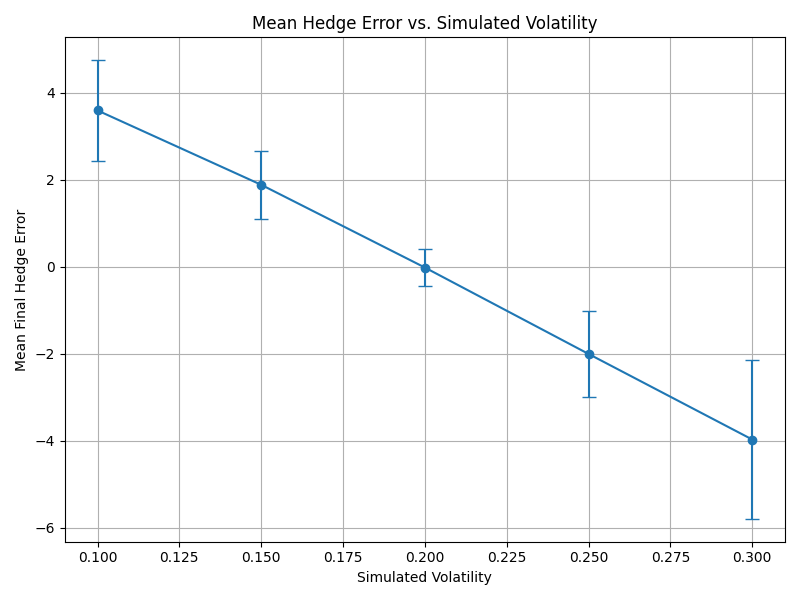
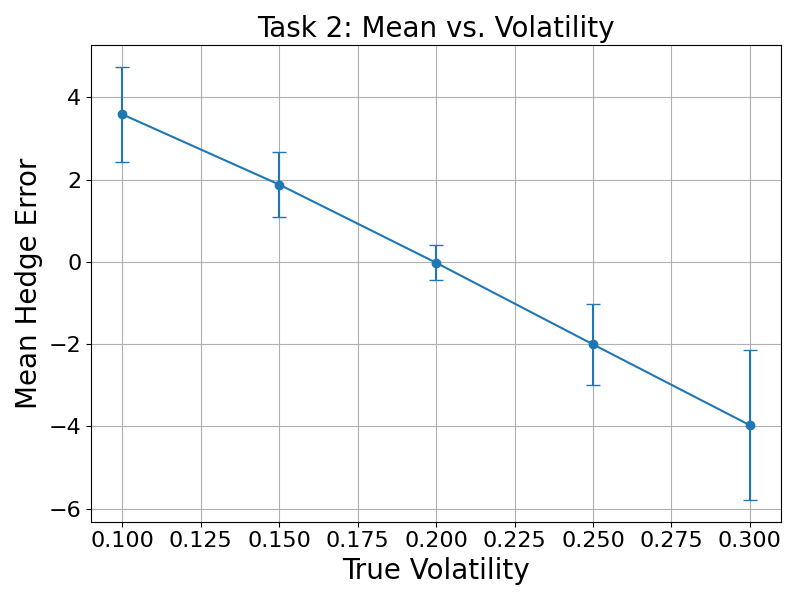
part3 update

diff --git a/src/Volatility Mismatch/1.py b/src/Volatility Mismatch/1.py
@@ -15,19 +15,18 @@ def black_scholes_price_and_delta(S, K, time_remaining, r, sigma):
     Calculate European call option price and delta using the Black-Scholes formula.
     
     Parameters:
-        S: current asset price.
-        K: strike price.
-        time_remaining: time remaining until maturity (in years).
-        r: risk-free rate.
-        sigma: volatility.
+        S: Current asset price.
+        K: Option strike price.
+        time_remaining: Time remaining until maturity (in years).
+        r: Risk-free rate.
+        sigma: Volatility (used for pricing and delta calculation).
         
     Returns:
-        price: option price.
-        delta: option delta.
+        price: Option price.
+        delta: Option delta.
     """
     if time_remaining < 1e-8:
         price = max(S - K, 0.0)
-        # At expiration, if S > K, delta=1; if S < K, delta=0; if S==K, we assign 0.5.
         delta = 1.0 if S > K else 0.0 if S < K else 0.5
         return price, delta
 
@@ -43,16 +42,18 @@ def black_scholes_price_and_delta(S, K, time_remaining, r, sigma):
 class DeltaHedgingSimulator:
     def __init__(self, initial_price, strike, T, r, pricing_vol, simulated_vol, sim_dt=1/2520):
         """
-        Initialize the simulator.
+        Initialize the delta hedging simulator.
         
         Parameters:
-            initial_price: initial asset price.
-            strike: option strike price.
-            T: maturity in years.
-            r: risk-free rate.
-            pricing_vol: volatility used for pricing and delta calculation (implied volatility).
-            simulated_vol: true volatility used for simulating the asset price path.
-            sim_dt: simulation time step.
+            initial_price: Initial asset price.
+            strike: Option strike price.
+            T: Option maturity (in years).
+            r: Risk-free interest rate.
+            pricing_vol: Implied volatility used for pricing and delta calculation.
+                         (Task 1: Matching Volatility, this equals the simulated volatility.)
+            simulated_vol: True volatility used to simulate the asset price path.
+                         (Task 2: Mismatched Volatility, this will vary while pricing_vol is fixed.)
+            sim_dt: Simulation time step.
         """
         self.initial_price = initial_price
         self.strike = strike
@@ -67,11 +68,11 @@ class DeltaHedgingSimulator:
         Simulate an asset price path under Geometric Brownian Motion.
         
         Parameters:
-            seed: random seed (optional).
+            seed: Random seed (optional).
             
         Returns:
-            times: array of time points.
-            path: array of asset prices.
+            times: Array of time points.
+            path: Array of asset prices.
         """
         if seed is not None:
             np.random.seed(seed)
@@ -87,35 +88,38 @@ class DeltaHedgingSimulator:
 
     def simulate_delta_hedge(self, hedge_interval, path_times=None, path_prices=None):
         """
-        Simulate the delta hedging process for a call option.
+        Simulate the delta hedging process of a European call option.
+        
+        For Task 1 (Matching Volatility): 
+            The asset simulation and delta computation use the same volatility.
+        For Task 2 (Mismatched Volatility): 
+            The simulation uses a true volatility different from the implied volatility used for delta computation.
         
         Parameters:
-            hedge_interval: time interval for rebalancing (in years).
-            path_times: optionally provide pre-generated time array.
-            path_prices: optionally provide pre-generated asset price path.
+            hedge_interval: Rebalancing interval (in years).
+            path_times: Optionally provide a pre-generated time array.
+            path_prices: Optionally provide a pre-generated asset price path.
             
         Returns:
-            result: dictionary containing:
-                - hedge_times: time points when hedging occurred.
-                - portfolio_values: portfolio value at each hedge time.
-                - option_values: theoretical option price at each hedge time.
-                - delta_values: delta used at each hedge time.
-                - hedge_errors: difference between portfolio value and option price.
-                - final_error: final hedge error.
+            result: A dictionary containing:
+                - hedge_times: Time points when hedging occurred.
+                - portfolio_values: Portfolio values at each hedge time.
+                - option_values: Theoretical option prices at each hedge time.
+                - delta_values: Option deltas used at each hedging point.
+                - hedge_errors: Difference between portfolio value and option price.
+                - final_error: Final hedge error.
         """
         if path_times is None or path_prices is None:
             path_times, path_prices = self.simulate_asset_path()
 
         N_sim = len(path_times) - 1
-        # Determine rebalancing indices. Ensure final time point is included.
         hedge_indices = np.arange(0, N_sim + 1, int(hedge_interval / self.sim_dt))
         if hedge_indices[-1] != N_sim:
             hedge_indices = np.append(hedge_indices, N_sim)
 
-        # Initial hedge: Calculate option price and delta.
         option_price, delta = black_scholes_price_and_delta(self.initial_price, self.strike, self.T, self.r, self.pricing_vol)
         cash = option_price - delta * self.initial_price
-        position = delta  # number of shares held
+        position = delta
 
         hedge_times = []
         portfolio_values = []
@@ -126,7 +130,6 @@ class DeltaHedgingSimulator:
         for i, idx in enumerate(hedge_indices):
             curr_time = path_times[idx]
             remaining_time = self.T - curr_time
-            # Update cash with risk-free growth from the last hedge time.
             if i > 0:
                 dt_period = curr_time - path_times[hedge_indices[i - 1]]
                 cash *= np.exp(self.r * dt_period)
@@ -141,7 +144,6 @@ class DeltaHedgingSimulator:
             delta_values.append(position)
             hedge_errors.append(error)
 
-            # Rebalance if not at maturity.
             if idx != N_sim:
                 _, new_delta = black_scholes_price_and_delta(path_prices[idx], self.strike, remaining_time, self.r, self.pricing_vol)
                 delta_adjustment = new_delta - position
@@ -161,19 +163,19 @@ class DeltaHedgingSimulator:
     @staticmethod
     def run_multiple_simulations(simulator, hedge_interval, num_simulations, seed_offset=0):
         """
-        Run multiple Monte Carlo simulations for a given hedging interval.
+        Run multiple Monte Carlo simulations for a specified hedging interval.
         
         Parameters:
-            simulator: an instance of DeltaHedgingSimulator.
-            hedge_interval: rebalancing interval (in years).
-            num_simulations: number of simulation runs.
-            seed_offset: offset for random seeds for reproducibility.
+            simulator: An instance of DeltaHedgingSimulator.
+            hedge_interval: Rebalancing interval (in years).
+            num_simulations: Number of simulation runs.
+            seed_offset: Random seed offset for reproducibility.
             
         Returns:
             A tuple containing:
-                - final_errors: array of final hedge errors from each simulation.
-                - one_time_path: hedge time path from the first simulation.
-                - one_error_path: hedge error path from the first simulation.
+                - final_errors: Array of final hedge errors.
+                - one_time_path: Hedge time points from the first simulation.
+                - one_error_path: Hedge error path from the first simulation.
         """
         final_errors = []
         one_error_path = None
@@ -192,17 +194,19 @@ class DeltaHedgingSimulator:
     @staticmethod
     def run_simulations_volatility_mismatch(initial_price, strike, T, r, pricing_vol, simulated_vol_list, hedge_interval, num_simulations):
         """
-        Run simulations to study the effect of different true volatilities (volatility mismatch).
+        Run simulations for Task 2: Mismatched Volatility.
+        
+        Here, pricing_vol is fixed (e.g., 20%), while the true volatility is varied.
+        This experiment studies the effect of volatility mismatch on hedging performance.
         
         Parameters:
-            initial_price, strike, T, r, pricing_vol: parameters for delta hedging.
-            simulated_vol_list: list of different true volatilities to simulate.
-            hedge_interval: hedging interval (in years).
-            num_simulations: number of simulation runs for each volatility.
+            initial_price, strike, T, r, pricing_vol: Parameters for delta hedging.
+            simulated_vol_list: List of different true volatilities.
+            hedge_interval: Hedging interval (in years).
+            num_simulations: Number of simulation runs for each volatility.
             
         Returns:
-            A dictionary where each key is a simulated volatility and the value is an array 
-            of final hedge errors obtained from the simulations.
+            A dictionary mapping each true volatility to an array of final hedge errors.
         """
         results = {}
         for sim_vol in simulated_vol_list:
@@ -211,129 +215,116 @@ class DeltaHedgingSimulator:
             results[sim_vol] = errors
         return results
 
-    @staticmethod
-    def run_simulations_implied_vol_mismatch(initial_price, strike, T, r, pricing_vol_list, simulated_vol, hedge_interval, num_simulations):
-        """
-        Run simulations to study the effect of different pricing (implied) volatilities while keeping
-        the true volatility fixed.
-        
-        Parameters:
-            initial_price, strike, T, r: standard parameters for delta hedging.
-            pricing_vol_list: list of different volatilities used for pricing/delta calculation.
-            simulated_vol: fixed true volatility used for stock price simulation.
-            hedge_interval: hedging interval (in years).
-            num_simulations: number of simulation runs for each pricing volatility.
-            
-        Returns:
-            A dictionary where each key is the pricing volatility and the value is an array 
-            of final hedge errors from the simulations.
-        """
-        results = {}
-        for p_vol in pricing_vol_list:
-            sim = DeltaHedgingSimulator(initial_price, strike, T, r, p_vol, simulated_vol)
-            errors, _, _ = DeltaHedgingSimulator.run_multiple_simulations(sim, hedge_interval, num_simulations)
-            results[p_vol] = errors
-        return results
-
 # -----------------------------
 # Main Simulation and Visualization
 # -----------------------------
 if __name__ == '__main__':
-    # Parameters for simulation.
+    # Simulation parameters.
     initial_price = 100.0     # Initial asset price.
     strike = 99.0             # Option strike price.
-    T = 1.0                   # Maturity in years.
+    T = 1.0                   # Option maturity (years).
     r = 0.06                  # Risk-free rate.
-    pricing_vol = 0.20        # Fixed pricing/delta volatility (implied volatility).
-    simulated_vol = 0.20      # True volatility for simulation (remains fixed).
+    pricing_vol = 0.20        # Fixed implied volatility for pricing/delta calculation.
+    simulated_vol = 0.20      # True volatility for Task 1 (Matching Volatility).
     sim_dt = 1/2520           # Simulation time step.
 
-    # Create a simulator instance for Task 1.
+    # =============================
+    # Task 1: Matching Volatility Experiment
+    # =============================
+    # In Task 1, both the asset simulation and delta computation use the same volatility (20%).
+    # We compare the impact of different rebalancing frequencies (daily vs. weekly) on hedging.
     simulator = DeltaHedgingSimulator(initial_price, strike, T, r, pricing_vol, simulated_vol, sim_dt)
 
-    # -----------------------------
-    # Task 1: Hedging Frequency Comparison
-    # -----------------------------
     daily_interval = 1/252    # Daily hedging.
     weekly_interval = 1/52    # Weekly hedging.
     num_simulations = 100     # Number of Monte Carlo simulations.
 
-    # Run simulations for daily and weekly hedging; obtain one error path (from the first simulation) for visualization.
+    # Run simulations for daily and weekly rebalancing and collect one error path for visualization.
     daily_errors, daily_time_path, daily_error_path = DeltaHedgingSimulator.run_multiple_simulations(
         simulator, daily_interval, num_simulations)
     weekly_errors, weekly_time_path, weekly_error_path = DeltaHedgingSimulator.run_multiple_simulations(
         simulator, weekly_interval, num_simulations)
 
-    # --- Task 1 Plot: Overlayed histogram for Daily and Weekly hedging ---
+    # --- Task 1 Plot: Histogram of Final Hedge Errors ---
     plt.figure(figsize=(8, 6))
     plt.hist(daily_errors, bins=30, alpha=0.6, color='skyblue', label='Daily Hedging', edgecolor='black')
     plt.hist(weekly_errors, bins=30, alpha=0.6, color='salmon', label='Weekly Hedging', edgecolor='black')
-    plt.title('Overlayed Hedge Errors')
-    plt.xlabel('Final Hedge Error')
-    plt.ylabel('Frequency')
-    plt.legend()
+    plt.title('Task 1: Hedge Error Histogram', fontsize=20)
+    plt.xlabel('Final Hedge Error', fontsize=20)
+    plt.ylabel('Frequency', fontsize=20)
+    plt.legend(fontsize=20)
+    plt.xticks(fontsize=18)
+    plt.yticks(fontsize=18)
     plt.tight_layout()
     plt.savefig("figures/task1_histograms.png")
     plt.show()
 
-    # --- Task 1 Plot: Hedging Error Path Over Time (from one simulation) ---
+    # --- Task 1 Plot: Error Path over Time ---
     plt.figure(figsize=(12, 5))
-    plt.plot(daily_time_path, daily_error_path, marker='o', label='Daily Hedging Error Path')
-    plt.plot(weekly_time_path, weekly_error_path, marker='o', label='Weekly Hedging Error Path')
-    plt.title('Hedging Error Path Over Time')
-    plt.xlabel('Time (years)')
-    plt.ylabel('Hedging Error')
-    plt.legend()
+    plt.plot(daily_time_path, daily_error_path, marker='o', label='Daily Error')
+    plt.plot(weekly_time_path, weekly_error_path, marker='o', label='Weekly Error')
+    plt.title('Task 1: Error Path', fontsize=20)
+    plt.xlabel('Time (years)', fontsize=20)
+    plt.ylabel('Hedge Error', fontsize=20)
+    plt.legend(fontsize=20)
     plt.grid(True)
+    plt.xticks(fontsize=18)
+    plt.yticks(fontsize=18)
     plt.tight_layout()
     plt.savefig("figures/task1_error_path.png")
     plt.show()
 
-    # -----------------------------
-    # Task 2: Implied Volatility Mismatch Experiment
-    # -----------------------------
-    # In this task, we keep the true volatility fixed (simulated_vol = 0.20)
-    # and vary the pricing/delta volatility (implied volatility).
-    pricing_vol_list = [0.10, 0.15, 0.20, 0.25, 0.30]
-    mismatch_results = DeltaHedgingSimulator.run_simulations_implied_vol_mismatch(
-        initial_price, strike, T, r, pricing_vol_list, simulated_vol, daily_interval, num_simulations)
+    # =============================
+    # Task 2: Mismatched Volatility Experiment
+    # =============================
+    # In Task 2, the implied volatility used for pricing is fixed at 20%, 
+    # while the true volatility used for asset simulation is varied.
+    simulated_vol_list = [0.10, 0.15, 0.20, 0.25, 0.30]
+    mismatch_results = DeltaHedgingSimulator.run_simulations_volatility_mismatch(
+        initial_price, strike, T, r, pricing_vol, simulated_vol_list, daily_interval, num_simulations)
 
-    # --- Task 2 Plot: Overlayed histogram for all pricing volatilities ---
+    # --- Task 2 Plot: Histogram for Different True Volatilities ---
     plt.figure(figsize=(10, 6))
     colors = ['blue', 'green', 'red', 'purple', 'orange']
-    for i, p_vol in enumerate(pricing_vol_list):
-        errors = mismatch_results[p_vol]
+    for i, sim_vol in enumerate(simulated_vol_list):
+        errors = mismatch_results[sim_vol]
         plt.hist(errors, bins=30, alpha=0.5, color=colors[i],
-                 label=f'Pricing Vol = {p_vol:.2f}', edgecolor='black')
-    plt.title('Overlayed Hedge Errors for Different Pricing Volatilities')
-    plt.xlabel('Final Hedge Error')
-    plt.ylabel('Frequency')
-    plt.legend()
+                 label=f'True Vol = {sim_vol:.2f}', edgecolor='black')
+    plt.title('Task 2: Error Histograms', fontsize=20)
+    plt.xlabel('Final Hedge Error', fontsize=20)
+    plt.ylabel('Frequency', fontsize=20)
+    plt.legend(fontsize=16)
+    plt.xticks(fontsize=18)
+    plt.yticks(fontsize=18)
     plt.grid(True)
     plt.tight_layout()
     plt.savefig("figures/task2_histograms.png")
     plt.show()
 
-    # --- Task 2 Plot: Boxplot for final hedge errors across different pricing volatilities ---
+    # --- Task 2 Plot: Boxplot of Final Hedge Errors ---
     plt.figure(figsize=(8, 6))
-    data_box = [mismatch_results[p_vol] for p_vol in pricing_vol_list]
-    plt.boxplot(data_box, labels=[f'{p_vol:.2f}' for p_vol in pricing_vol_list])
-    plt.title('Boxplot of Final Hedge Errors by Pricing Volatility')
-    plt.xlabel('Pricing Volatility')
-    plt.ylabel('Final Hedge Error')
+    data_box = [mismatch_results[vol] for vol in simulated_vol_list]
+    plt.boxplot(data_box, labels=[f'{vol:.2f}' for vol in simulated_vol_list])
+    plt.title('Task 2: Error Boxplot', fontsize=20)
+    plt.xlabel('True Volatility', fontsize=20)
+    plt.ylabel('Final Hedge Error', fontsize=20)
+    plt.xticks(fontsize=16)
+    plt.yticks(fontsize=16)
     plt.grid(True)
     plt.tight_layout()
     plt.savefig("figures/task2_boxplot.png")
     plt.show()
 
-    # --- Task 2 Plot: Scatter Plot with error bars (mean ± std) for different pricing volatilities ---
-    means = [np.mean(mismatch_results[p_vol]) for p_vol in pricing_vol_list]
-    stds = [np.std(mismatch_results[p_vol]) for p_vol in pricing_vol_list]
+    # --- Task 2 Plot: Scatter Plot with Error Bars (Mean ± Std) ---
+    means = [np.mean(mismatch_results[v]) for v in simulated_vol_list]
+    stds = [np.std(mismatch_results[v]) for v in simulated_vol_list]
     plt.figure(figsize=(8, 6))
-    plt.errorbar(pricing_vol_list, means, yerr=stds, fmt='o-', capsize=5)
-    plt.xlabel('Pricing Volatility')
-    plt.ylabel('Mean Final Hedge Error')
-    plt.title('Mean Hedge Error vs. Pricing Volatility')
+    plt.errorbar(simulated_vol_list, means, yerr=stds, fmt='o-', capsize=5)
+    plt.xlabel('True Volatility', fontsize=20)
+    plt.ylabel('Mean Hedge Error', fontsize=20)
+    plt.title('Task 2: Mean vs. Volatility', fontsize=20)
+    plt.xticks(fontsize=16)
+    plt.yticks(fontsize=16)
     plt.grid(True)
     plt.tight_layout()
     plt.savefig("figures/task2_scatter.png")
